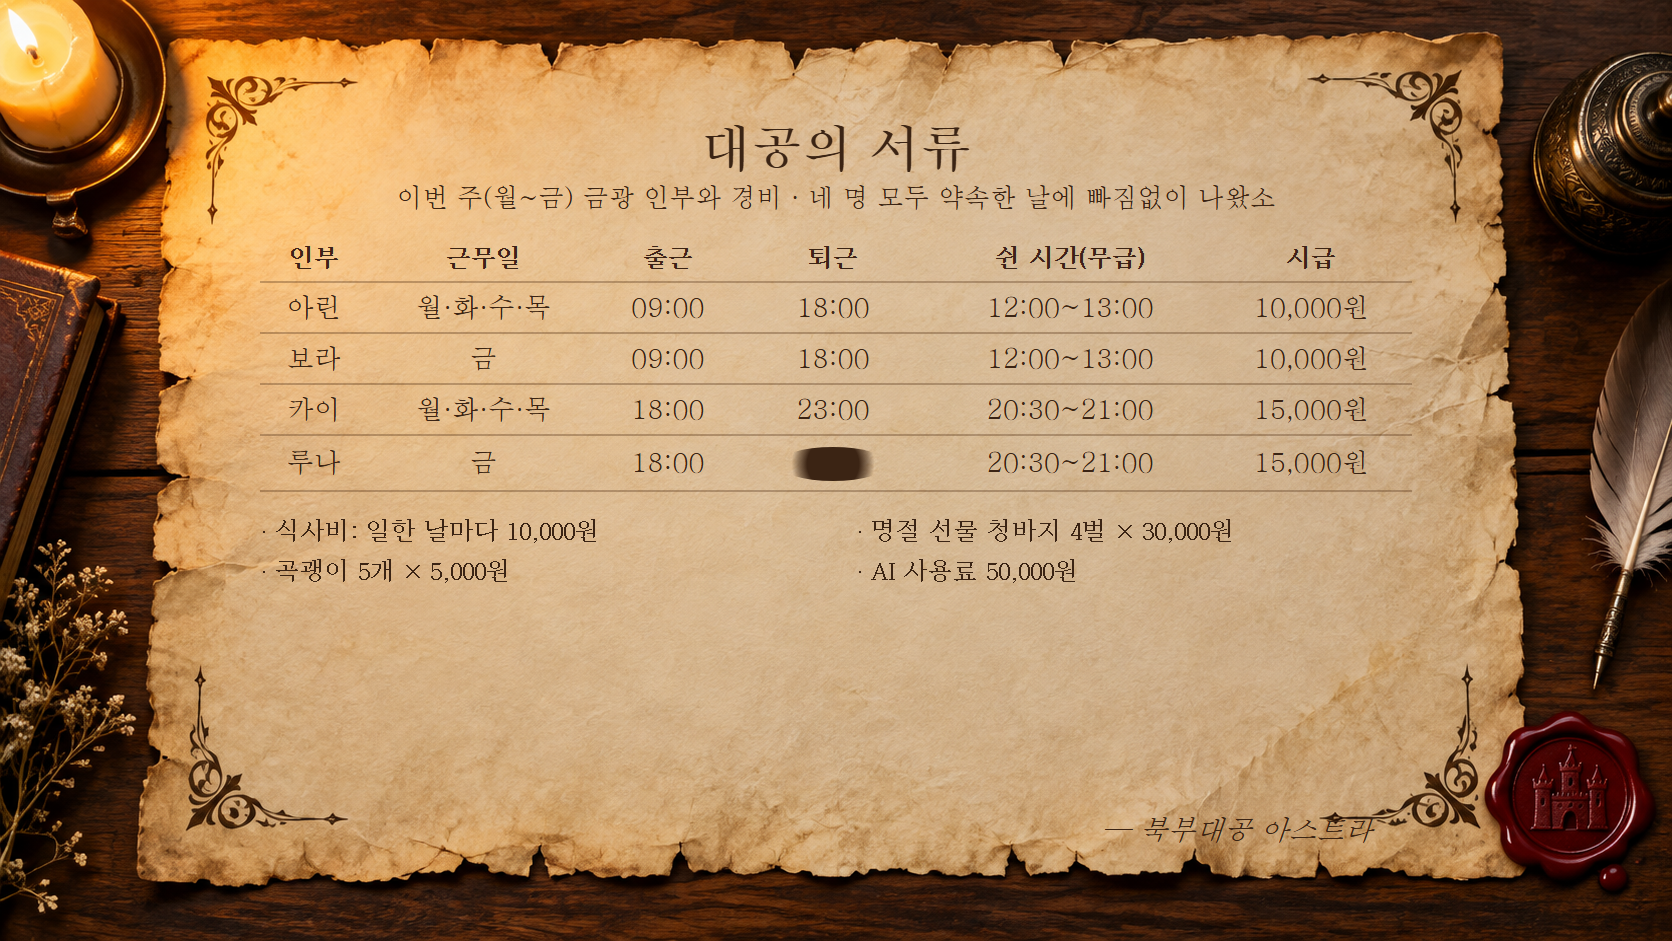
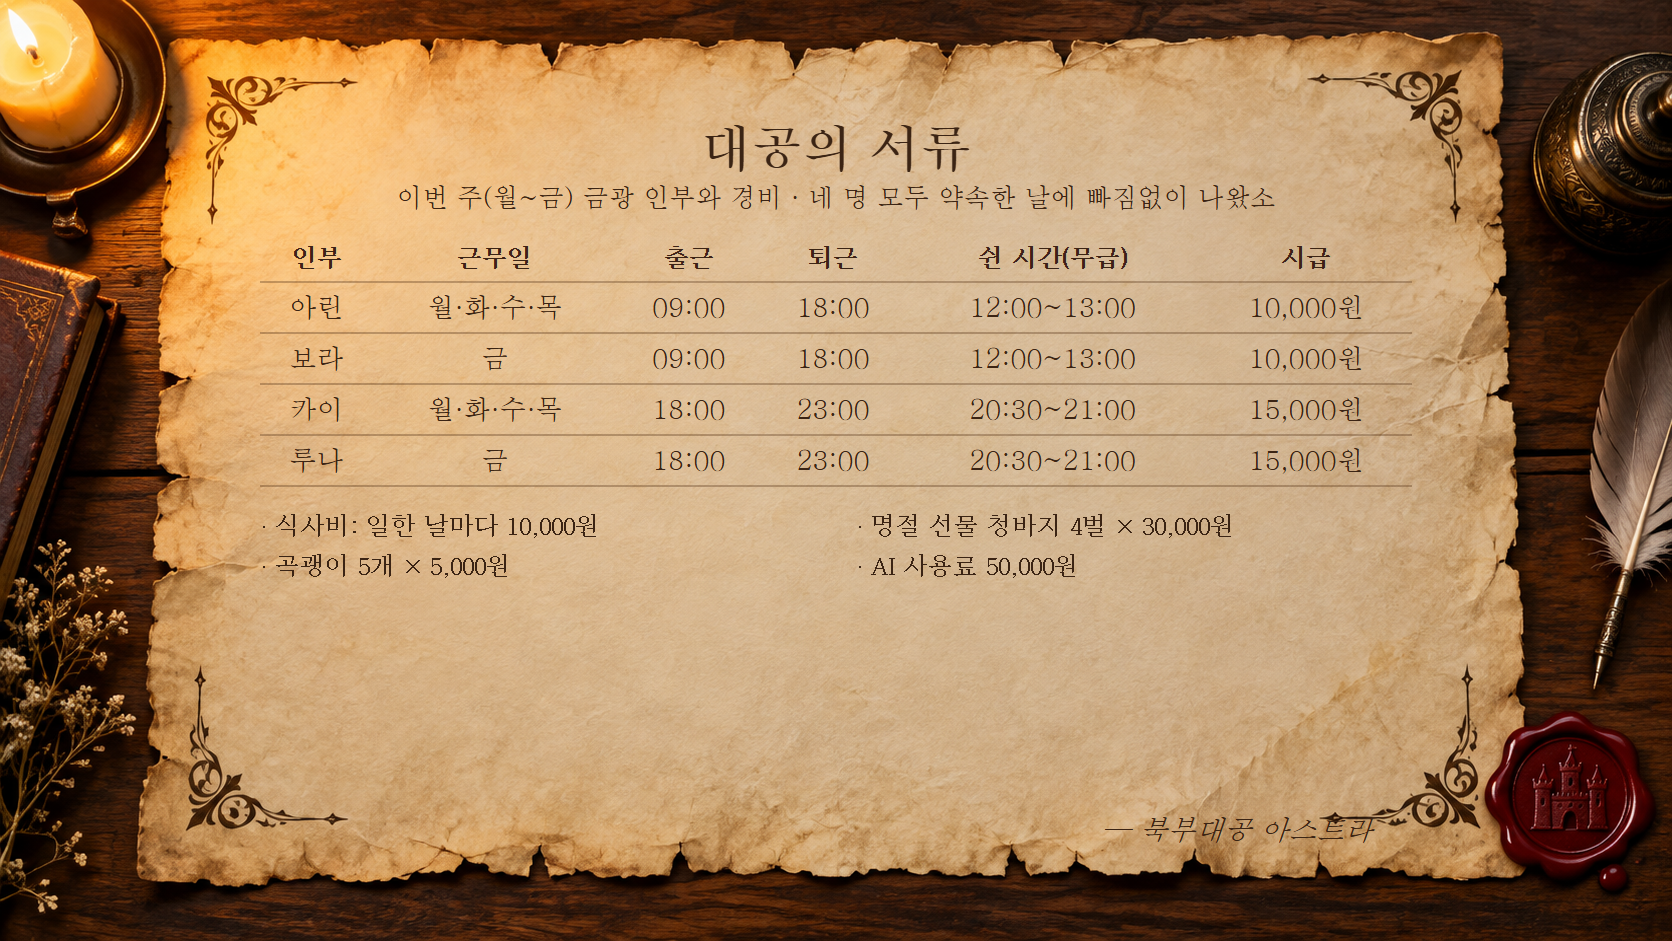
Replace smudged clock-out with hidden bonus rule for review practice

diff --git a/duke/대공의_서류.md b/duke/대공의_서류.md
@@ -9,7 +9,7 @@
 | 아린 | 월·화·수·목 | 09:00 | 18:00 | 12:00~13:00 | 10,000원 |
 | 보라 | 금 | 09:00 | 18:00 | 12:00~13:00 | 10,000원 |
 | 카이 | 월·화·수·목 | 18:00 | 23:00 | 20:30~21:00 | 15,000원 |
-| 루나 | 금 | 18:00 | **(얼룩져서 안 보임)** | 20:30~21:00 | 15,000원 |
+| 루나 | 금 | 18:00 | 23:00 | 20:30~21:00 | 15,000원 |
 
 - 네 명 모두 약속한 날에 빠짐없이 나왔소.
 - 카이와 루나의 15,000원은 저녁 근무조 전체에 약속한 시급이오.
